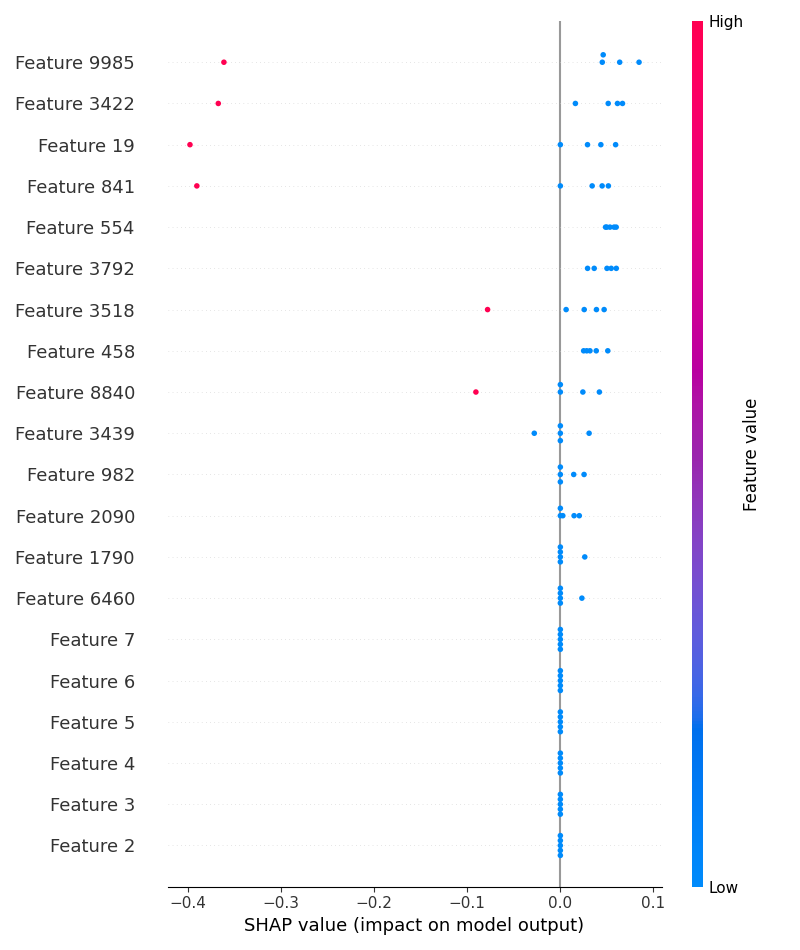
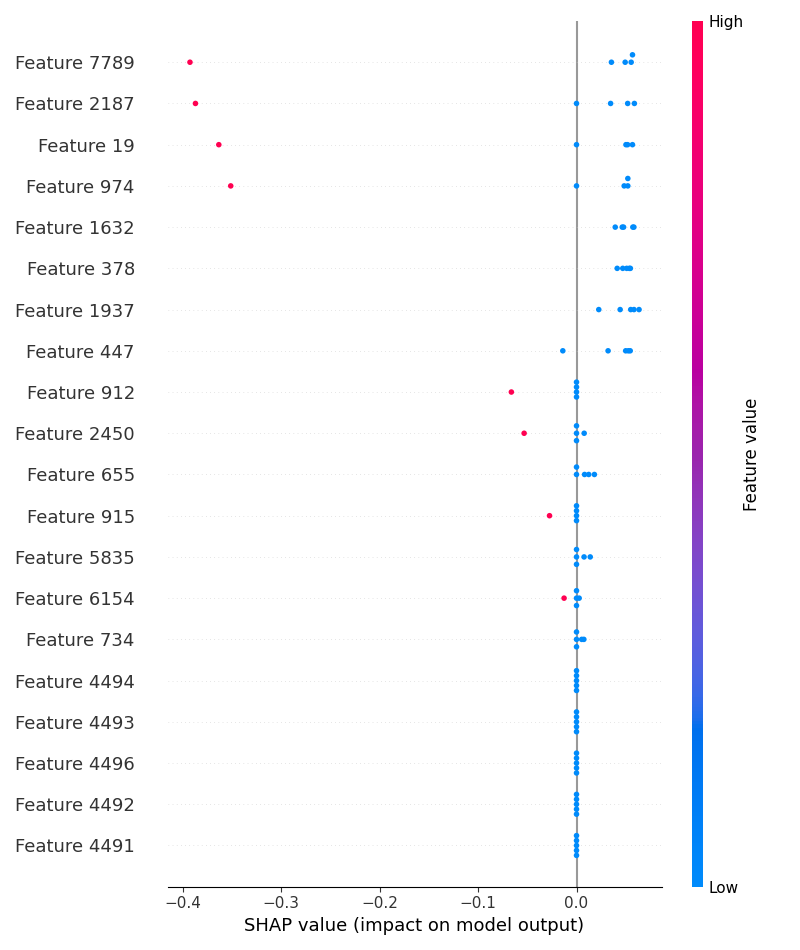
complete model pipeline

diff --git a/dags/model_development/sensitivity_analysis.py b/dags/model_development/sensitivity_analysis.py
@@ -5,66 +5,71 @@ import numpy as np
 import matplotlib.pyplot as plt
 import shap
 
-# Set up directories
-PROJECT_DIR = os.path.dirname(os.path.dirname(os.path.dirname(os.path.abspath(__file__))))
-MODEL_SAVE_DIR = os.path.join(PROJECT_DIR, "data", "models")
-FINAL_MODEL_DIR = os.path.join(MODEL_SAVE_DIR, "tuned_model")
-SENSITIVITY_DIR = os.path.join(PROJECT_DIR, "dags", "bias_sensitivity_analysis")
-os.makedirs(SENSITIVITY_DIR, exist_ok=True)
+def run_sensitivity_analysis():
+    # Set up directories
+    PROJECT_DIR = os.path.dirname(os.path.dirname(os.path.dirname(os.path.abspath(__file__))))
+    MODEL_SAVE_DIR = os.path.join(PROJECT_DIR, "data", "models")
+    FINAL_MODEL_DIR = os.path.join(MODEL_SAVE_DIR, "tuned_model")
+    SENSITIVITY_DIR = os.path.join(PROJECT_DIR, "dags", "bias_sensitivity_analysis")
+    os.makedirs(SENSITIVITY_DIR, exist_ok=True)
 
-# Load the tuned model
-model_path = os.path.join(FINAL_MODEL_DIR, "tuned_model_v1.pkl")
-with open(model_path, 'rb') as f:
-    model_data = pickle.load(f)
+    # Load the tuned model
+    model_path = os.path.join(FINAL_MODEL_DIR, "tuned_model_v1.pkl")
+    with open(model_path, 'rb') as f:
+        model_data = pickle.load(f)
 
-# Extract model components
-user_model = model_data['user_model']
-game_model = model_data['game_model']
-user_game_matrix = model_data['user_game_matrix']
-game_user_matrix = model_data['game_user_matrix']
-idx_to_game = model_data['idx_to_game']
+    # Extract model components
+    user_model = model_data['user_model']
+    game_model = model_data['game_model']
+    user_game_matrix = model_data['user_game_matrix']
+    game_user_matrix = model_data['game_user_matrix']
+    idx_to_game = model_data['idx_to_game']
 
-# Feature importance analysis with SHAP
-# Sample a small subset for faster processing
-sample_size = min(50, user_game_matrix.shape[0])
-sample_indices = np.random.choice(user_game_matrix.shape[0], sample_size, replace=False)
-sample_matrix = user_game_matrix[sample_indices].toarray()
+    # Feature importance analysis with SHAP
+    # Sample a small subset for faster processing
+    sample_size = min(50, user_game_matrix.shape[0])
+    sample_indices = np.random.choice(user_game_matrix.shape[0], sample_size, replace=False)
+    sample_matrix = user_game_matrix[sample_indices].toarray()
 
-# Modify your model_predict function to ensure compatible output shape
-def model_predict(x):
-    # Ensure output shape matches input samples
-    distances, _ = user_model.kneighbors(x, return_distance=True)
-    # Return first neighbor distance for each sample
-    return distances[:, 0]  # This should match the number of samples in x
+    # Modify your model_predict function to ensure compatible output shape
+    def model_predict(x):
+        # Ensure output shape matches input samples
+        distances, _ = user_model.kneighbors(x, return_distance=True)
+        # Return first neighbor distance for each sample
+        return distances[:, 0]  # This should match the number of samples in x
 
-# Use fewer samples or a different explainer
-explainer = shap.Explainer(model_predict, sample_matrix[:10])
-# Or
-explainer = shap.KernelExplainer(model_predict, sample_matrix[:10], link="identity")
+    # Use fewer samples or a different explainer
+    explainer = shap.Explainer(model_predict, sample_matrix[:10])
+    # Or
+    explainer = shap.KernelExplainer(model_predict, sample_matrix[:10], link="identity")
 
-# Create explainer with a small subset of data
-explainer = shap.KernelExplainer(model_predict, sample_matrix[:10])
+    # Create explainer with a small subset of data
+    explainer = shap.KernelExplainer(model_predict, sample_matrix[:10])
 
-# Calculate SHAP values for a few samples
-shap_values = explainer.shap_values(sample_matrix[:5], nsamples=100)
+    # Calculate SHAP values for a few samples
+    shap_values = explainer.shap_values(sample_matrix[:5], nsamples=100)
 
-# Create and save summary plot
-plt.figure(figsize=(12, 8))
-shap.summary_plot(shap_values, sample_matrix[:5], show=False)
-plt.tight_layout()
-plt.savefig(os.path.join(SENSITIVITY_DIR, 'shap_feature_importance.png'))
-plt.close()
+    # Create and save summary plot
+    plt.figure(figsize=(12, 8))
+    shap.summary_plot(shap_values, sample_matrix[:5], show=False)
+    plt.tight_layout()
+    plt.savefig(os.path.join(SENSITIVITY_DIR, 'shap_feature_importance.png'))
+    plt.close()
 
-print(f"✅ SHAP analysis completed and saved to {SENSITIVITY_DIR}")
+    print(f"✅ SHAP analysis completed and saved to {SENSITIVITY_DIR}")
 
-# Save feature importance scores
-feature_importance = np.abs(shap_values).mean(0)
-top_features_idx = np.argsort(-feature_importance)[:20]
-top_features = [(idx_to_game.get(i, f"GameID_{i}"), feature_importance[i]) 
-                for i in top_features_idx]
+    # Save feature importance scores
+    feature_importance = np.abs(shap_values).mean(0)
+    top_features_idx = np.argsort(-feature_importance)[:20]
+    top_features = [(idx_to_game.get(i, f"GameID_{i}"), feature_importance[i]) 
+                    for i in top_features_idx]
 
-# Save to CSV
-pd.DataFrame(top_features, columns=['Game', 'Importance']).to_csv(
-    os.path.join(SENSITIVITY_DIR, 'feature_importance.csv'), index=False)
+    # Save to CSV
+    pd.DataFrame(top_features, columns=['Game', 'Importance']).to_csv(
+        os.path.join(SENSITIVITY_DIR, 'feature_importance.csv'), index=False)
 
-print("✅ Feature importance analysis completed successfully")
+    print("✅ Feature importance analysis completed successfully")
+
+# --- CLI Entry Point ---
+if __name__ == "__main__":
+    run_sensitivity_analysis()

diff --git a/dags/model_pipeline.py b/dags/model_pipeline.py
@@ -6,6 +6,8 @@ from airflow import configuration as conf
 from notification import notify_failure, notify_success
 from model_development.push_model_to_mlflow import log_model_to_mlflow
 from model_development.select_and_push_best_model import select_and_push_best_model
+from model_development.bias import run_bias_analysis
+from model_development.sensitivity_analysis import run_sensitivity_analysis
 
 # Specify the input parameters
 BUCKET_NAME = "steam-select"
@@ -108,6 +110,20 @@ select_and_push_best_model_task = PythonOperator(
     dag=dag
 )
 
+model_sensitivity_analysis_task = PythonOperator(
+   task_id='model_sensitivity_analysis',
+   python_callable=run_sensitivity_analysis,
+    # on_failure_callback=lambda context: notify_failure(context, "Feature Engineering Pipeline : Feature Reviews Task Failed."),
+   dag=dag,
+)
+
+model_bias_analysis_task = PythonOperator(
+   task_id='model_bias_analysis',
+   python_callable=run_bias_analysis,
+    # on_failure_callback=lambda context: notify_failure(context, "Feature Engineering Pipeline : Feature Reviews Task Failed."),
+   dag=dag,
+)
+
 # Define the task dependencies
-download_processed_data_from_gcp_task >> build_hybrid_model_task >> push_model_task >> hyperparameter_tuning_task >> push_tuned_model_task >> select_and_push_best_model_task
+download_processed_data_from_gcp_task >> build_hybrid_model_task >> push_model_task >> hyperparameter_tuning_task >> model_sensitivity_analysis_task >> model_bias_analysis_task >> push_tuned_model_task >> select_and_push_best_model_task
 

diff --git a/dags/model_development/bias.py b/dags/model_development/bias.py
@@ -3,7 +3,7 @@ import pandas as pd
 import numpy as np
 import datetime
 
-from build_model import run_hybrid_recommendation_system, load_processed_data, evaluate_genre_recommendations
+from model_development.build_model import run_hybrid_recommendation_system, load_processed_data, evaluate_genre_recommendations
 
 
 # --- Step 1: Slice Users by Activity Level ---
